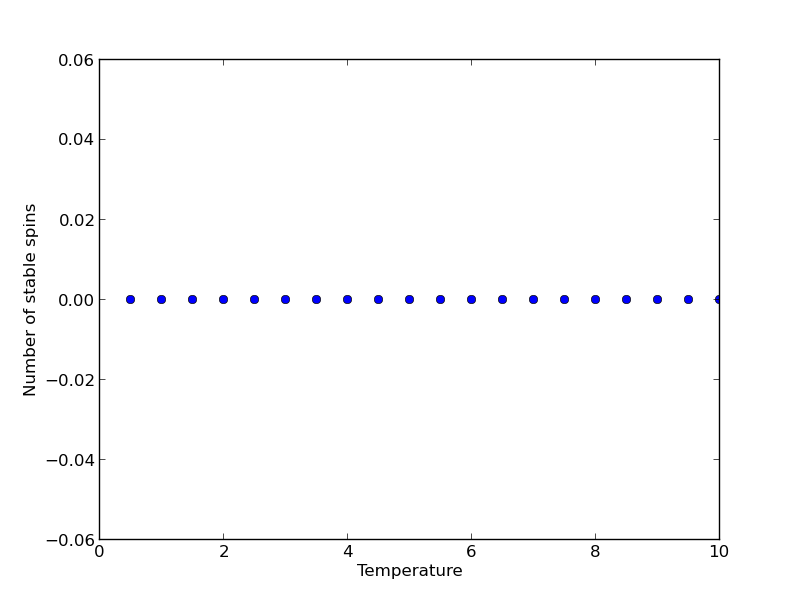
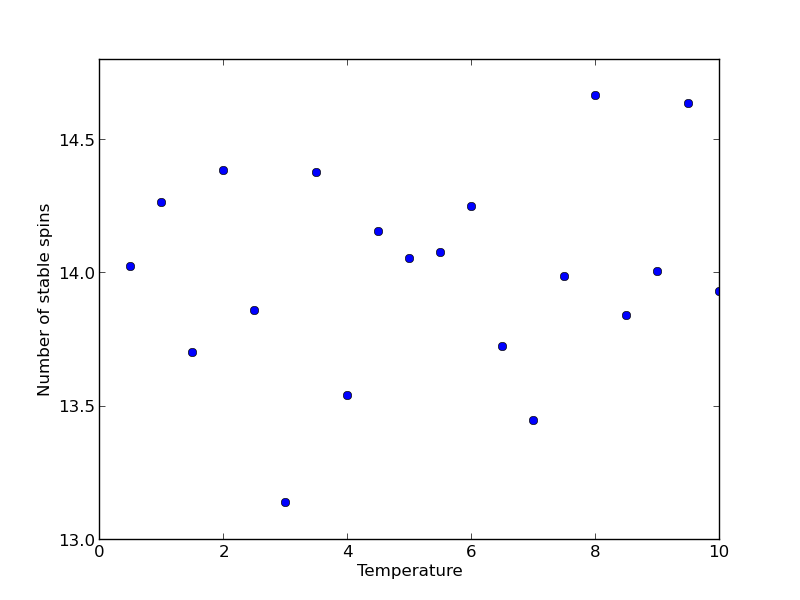
still not working

diff --git a/hw6/hw6_1.py b/hw6/hw6_1.py
@@ -1,5 +1,12 @@
-import numpy
-import generate_configs
+from numpy import *
+import matplotlib.pyplot as plt
+import pylab
+from scipy import stats
+from scipy.integrate import quad
+import writer
+from generate_configs import generate_configs
+from pad import pad
+
 
 def main():
     l = 15
@@ -7,32 +14,42 @@ def main():
     j = 1
     n_configs = 250
     n_usable_configs = 200
-    temp_range = range(0.5, 10, 0.5)
-    energy = numpy.zeros((temp_range, 1))
-    initial_energy = numpy.ones((l, l))
+    temps = linspace(10,.5,20)
+    energy = zeros((len(temps), 1))
+    initial_energy = ones((l, l))
     last_lattice = initial_energy
     
-    for temp in range(temp_range):
-        lattice = generate_configs(l, h, j, last_lattice, n_configs, n_usable_configs, temp_range(temp))
-        lattice_pad = numpy.zeros((l+2, l+2, n_usable_configs))
-
+    for iTemp, temp in enumerate(temps):
+        lattice = generate_configs(l, h, j, last_lattice, n_configs, n_usable_configs, temp)
+        lattice_pad = zeros((l+2, l+2, n_usable_configs))
         for config in range(n_usable_configs):
-            lattice_pad[:][:][config] = lattice[:][:][config]
+            lattice_pad[:,:,config] = pad(lattice[:,:,config])
         
-        end_x = lattice_pad.shape(0)
-        end_y = lattice_pad.shape(1)
-        end_z = lattice_pad.shape(2)
-        north = lattice_pad[1:end_x-2][2:end_y-1][:]
-        south = lattice_pad[3:end_x][2:end_y-1][:]
-        east = lattice_pad[2:end_x-1][3:end_y][:]
-        west = lattice_pad[2:end_x-1][1:end_y-2][:]
-
-        f = -1 * h * numpy.sum(numpy.sum(lattice))
-        s = -1 * j/2.0 * numpy.sum(numpy.sum(lattice * 
-            (north + south + east + west)))
-        energy_temp = f + s
-        energy(temp) = sum(energy_temp)/n_usable_configs
-        last_lattice = lattice[:][:][lattice.shape(2)]
+        north = lattice_pad[0:-2, 1:-1, :]
+        south = lattice_pad[2:, 1:-1, :]
+        east = lattice_pad[1:-1, 2:, :]
+        west = lattice_pad[1:-1, 0:-2, :]
+        
+        f = -1 * h * sum(lattice)
+        s = -1 * 0.5*j * sum(lattice * 
+            (north + south + east + west))
+        energy_temp = (f+s)/float(n_usable_configs)
+        energy[iTemp] = energy_temp
+        #print('energy for ', temp, ' = ', energy_temp)
+        last_lattice = lattice[:,:,-1]
+    #print(energy)
+    print size(temps)
+    print size(energy)
+    plotxy(temps, energy)
+    
+    
+def plotxy(x,y):
+	plt.figure('hw 1 figure')
+	plt.xlabel('Temperature')
+	plt.ylabel('Number of stable spins')
+	plt.plot(x,y,'bo')
+	plt.savefig('result/fig1')
+	plt.show()
 
 if __name__=='__main__':
     main()

diff --git a/hw6/hw6_5.py b/hw6/hw6_5.py
@@ -14,7 +14,7 @@ def operation():
 	#print tt_list
 	expg_sigma = zeros([size(tt_list),1])
 	
-	m0 = random.random((l,l))*2 -1
+	m0 = around(random.rand(l,l),0)*2 -1
 	last_latt = m0
 
 	for tt in range(size(tt_list)):
@@ -32,13 +32,20 @@ def operation():
 		#print latt3D==north
 		#print latt3D_pad.shape
 		#print north.shape
+		#print north.shape
 		stable_spins3D = (latt3D==north) & (latt3D==south) & (latt3D==east) & (latt3D==west)
+		#print stable_spins3D[:,:,0]
+		#print latt3D
+		#print north
+		#print sum(latt3D==east)
+		#print sum(latt3D==west)
 		g_sigma = sum(stable_spins3D)
 		print g_sigma
+		#print g_sigma
 		#print south.shape
 		#print east.shape
 		#print west.shape
-		expg_sigma[tt] = sum(g_sigma)/float(nbr_configs2use)
+		expg_sigma[tt] = g_sigma/float(nbr_configs2use)
 		last_latt = latt3D[:,:,-1]
 	plotxy(tt_list, expg_sigma)	
 

diff --git a/hw6/test_grid.py b/hw6/test_grid.py
@@ -4,13 +4,14 @@ from numpy import *
 def test_grid(h, j, lattice, r, c, temp_tilde):
     r = r+1
     c = c+1
-    #print r,c
+    print r,c
     sigma = lattice[r][c]
     d_u = -((2*h*sigma) + 
             (2*j*sigma*(lattice[r+1][c] + lattice[r-1][c]) + 
                 lattice[r][c+1] + lattice[r][c-1]))
     q = exp(-d_u/float(temp_tilde))
     probability = min(1, q)
-
+    print d_u
+    raw_input('continue')
     outcome = (random.random() <= probability)
     return [outcome, probability]

diff --git a/hw6/generate_configs.py b/hw6/generate_configs.py
@@ -10,8 +10,8 @@ def generate_configs(l, h, j, initial_lattice,
 
     for x in range(n_configs):
         for t in range(l**2):
-            r = random.random() * l
-            c = random.random() * l
+            r = int(random.random() * l)
+            c = int(random.random() * l)
             new_lattice = initial_lattice
             new_lattice[r, c] = new_lattice[r,c] * -1
 	    #print new_lattice.shape
